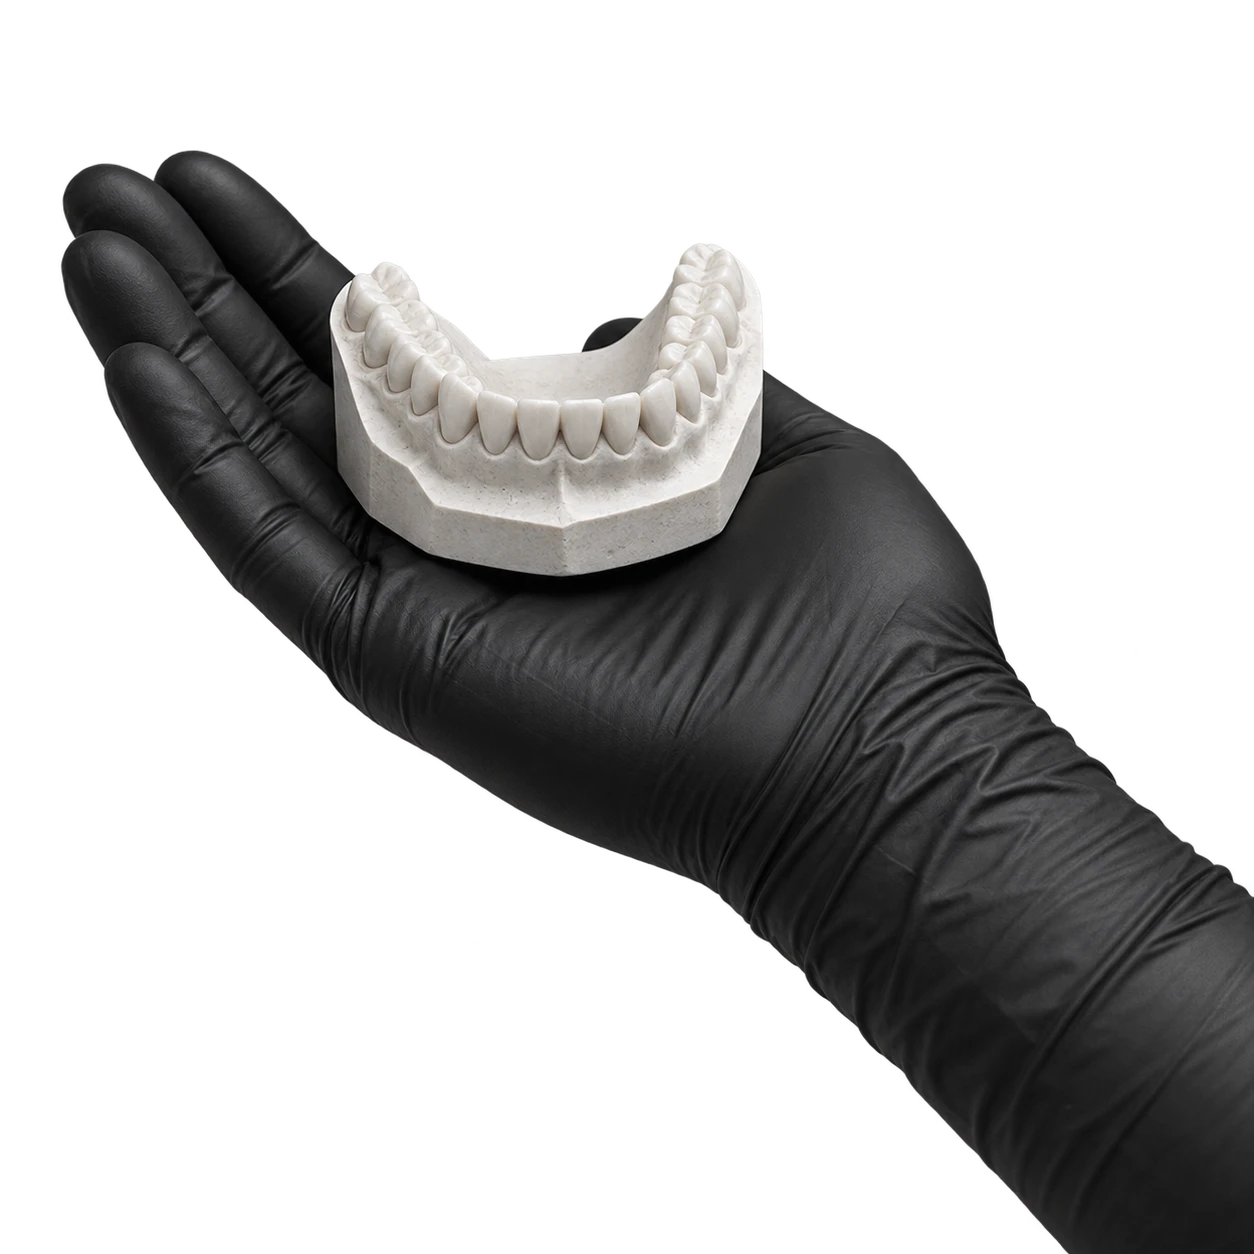
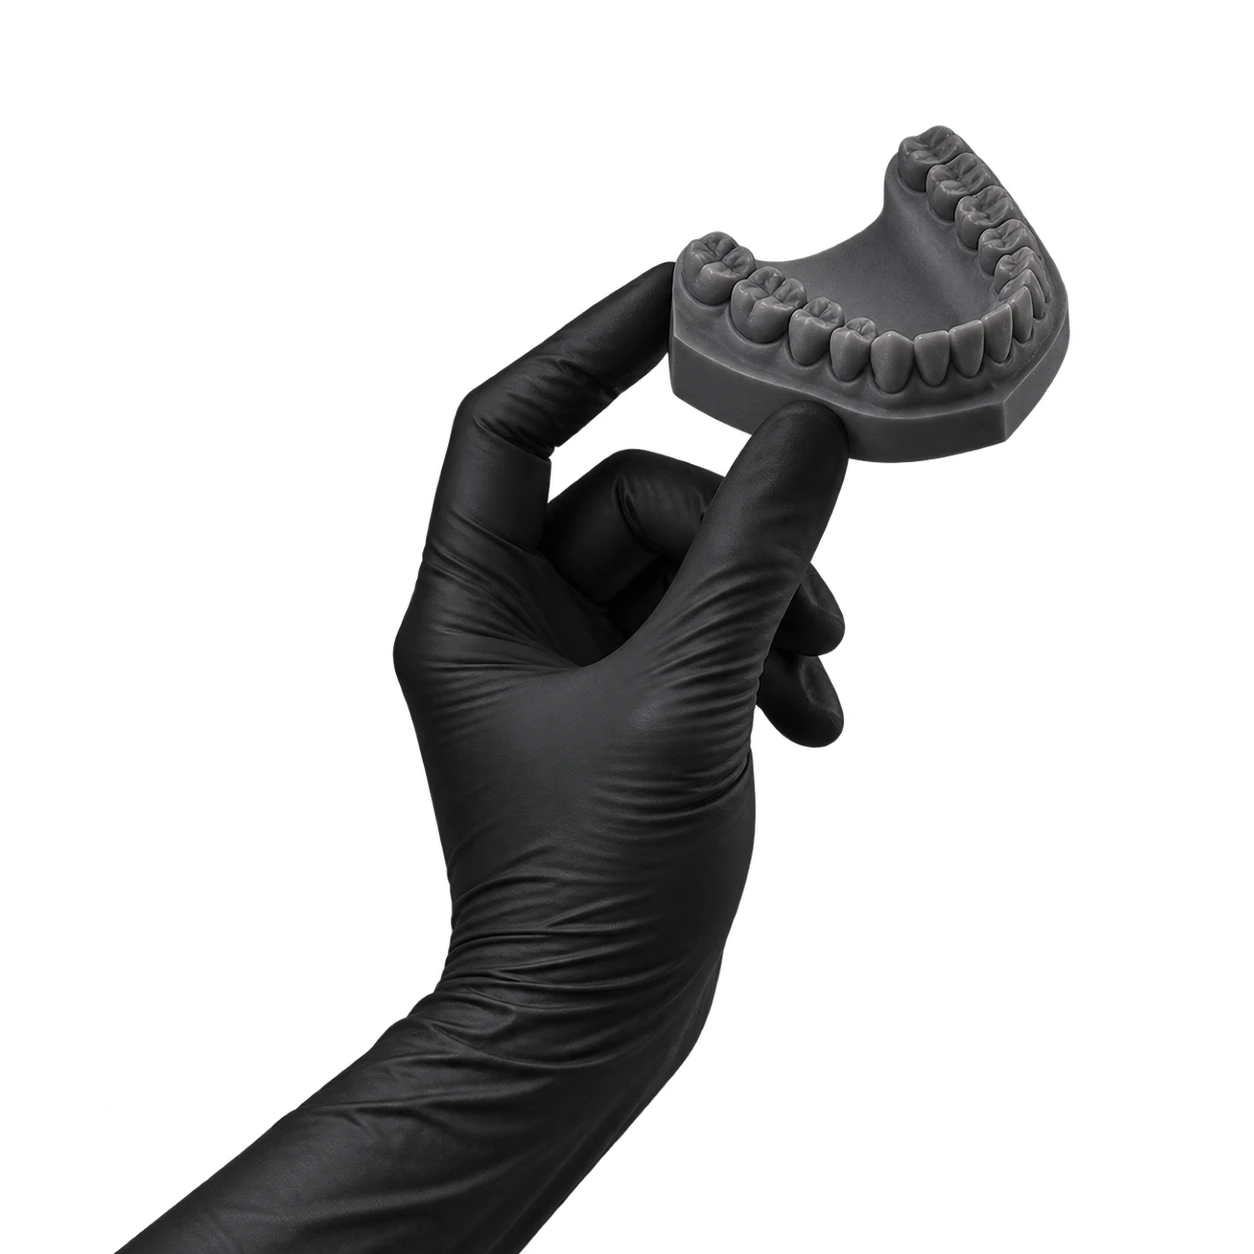
Refina imagem odontológica com gesto delicado e modelo grafite

diff --git a/docs/04-design/planos-editoriais-teste.md b/docs/04-design/planos-editoriais-teste.md
@@ -40,8 +40,10 @@ Prompt final:
 
 Asset: `public/imagens/planos-editoriais/modelo-dentario.webp`.
 
-Original: `/Users/lenoravitorino/.codex/generated_images/01a0f7a0-9088-77f3-9efb-dbe962d52bf8/exec-bdcc8ece-0435-45c4-a229-8388d373fcf0.png`.
+Revisão: gesto delicado de pinça com luva preta segurando as laterais do modelo, em diagonal. Modelo inteiro em cinza grafite fosco para preservar o contraste do nome branco. Substitui a palma aberta com modelo branco. Mantém opacidade 100% no centro e máscara suave nas bordas, nas duas versões.
+
+Original gerado com image_gen nativo (sem CLI): `/Users/lenoravitorino/.codex/generated_images/01a0f7a0-9088-77f3-9efb-dbe962d52bf8/exec-5b50421d-6bd6-46eb-84ef-b47a882929c0.png`.
 
 Prompt final:
 
-> Use case: ads-marketing. Create a premium editorial photographic transparent cutout for a high-end dental clinic website. ONE anatomically realistic adult hand wearing a matte BLACK nitrile medical glove, palm facing up, forearm enters diagonally from bottom right, fingers point toward upper left. The open palm gently supports a small accurate white ivory plaster dental arch model with a complete realistic row of teeth, visible from a three-quarter front and slightly above angle. Recognizable curved dental cast, not a single oversized tooth. The model rests naturally on the palm, centered slightly above center of the square frame. Realistic sophisticated monochrome studio photography, tactile black glove folds, soft directional light, restrained silver highlights with enough exposure to read against charcoal, ivory plaster teeth. Ample transparent margins, hand and cast fully legible. Genuinely transparent alpha background. No second hand, no face, no blue or white gloves, no extra fingers, no labels, no text, no logos, no decorative graphics, no glow. Standalone photographic cutout, not a website or poster.
+> Use case: ads-marketing. Premium medical editorial photographic cutout, square transparent canvas. A single anatomically realistic slender adult hand in fitted matte BLACK nitrile medical glove rises diagonally from lower left and delicately GRIPS a small dental arch study model by its lateral base edges between thumb and curved index/middle fingers. Back/side of the glove faces the camera, graceful precise pinch grip similar to a clinician holding a small syringe; remaining fingers naturally curl inward. Absolutely NOT an open palm, NOT a tray-like hand with an object resting on top. The dental cast is a recognizable horseshoe dental arch with individually modeled teeth, made entirely from matte medium-dark GRAPHITE GREY dental model resin, INCLUDING the teeth; no white, ivory, cream, pink, shiny metal or bright areas. Subtle soft grey rim highlights define tooth anatomy without brightness. Model seen in three-quarter side/top view, gently tilted diagonally toward upper right, placed above center around x62% y30%; glove below center around x42% y65%. Model is compact, no more than one-third frame width; overall gesture is long, light and diagonal, plenty of negative space around. True realistic refined monochrome studio photography with natural delicate glove wrinkles, restrained soft directional light, low-key exposure, comparable to black-gloved aesthetic injection editorial photography. No huge frontal palm, no oversized prosthesis, no floating object, no other hand, no extra fingers, no syringe, no text, no logos or graphics, no yellow. Fully opaque subject on genuine transparent alpha background. Intended for overlay behind white typography on charcoal with a yellow abstract symbol; do NOT include that typography or symbol. Standalone photo asset only.
